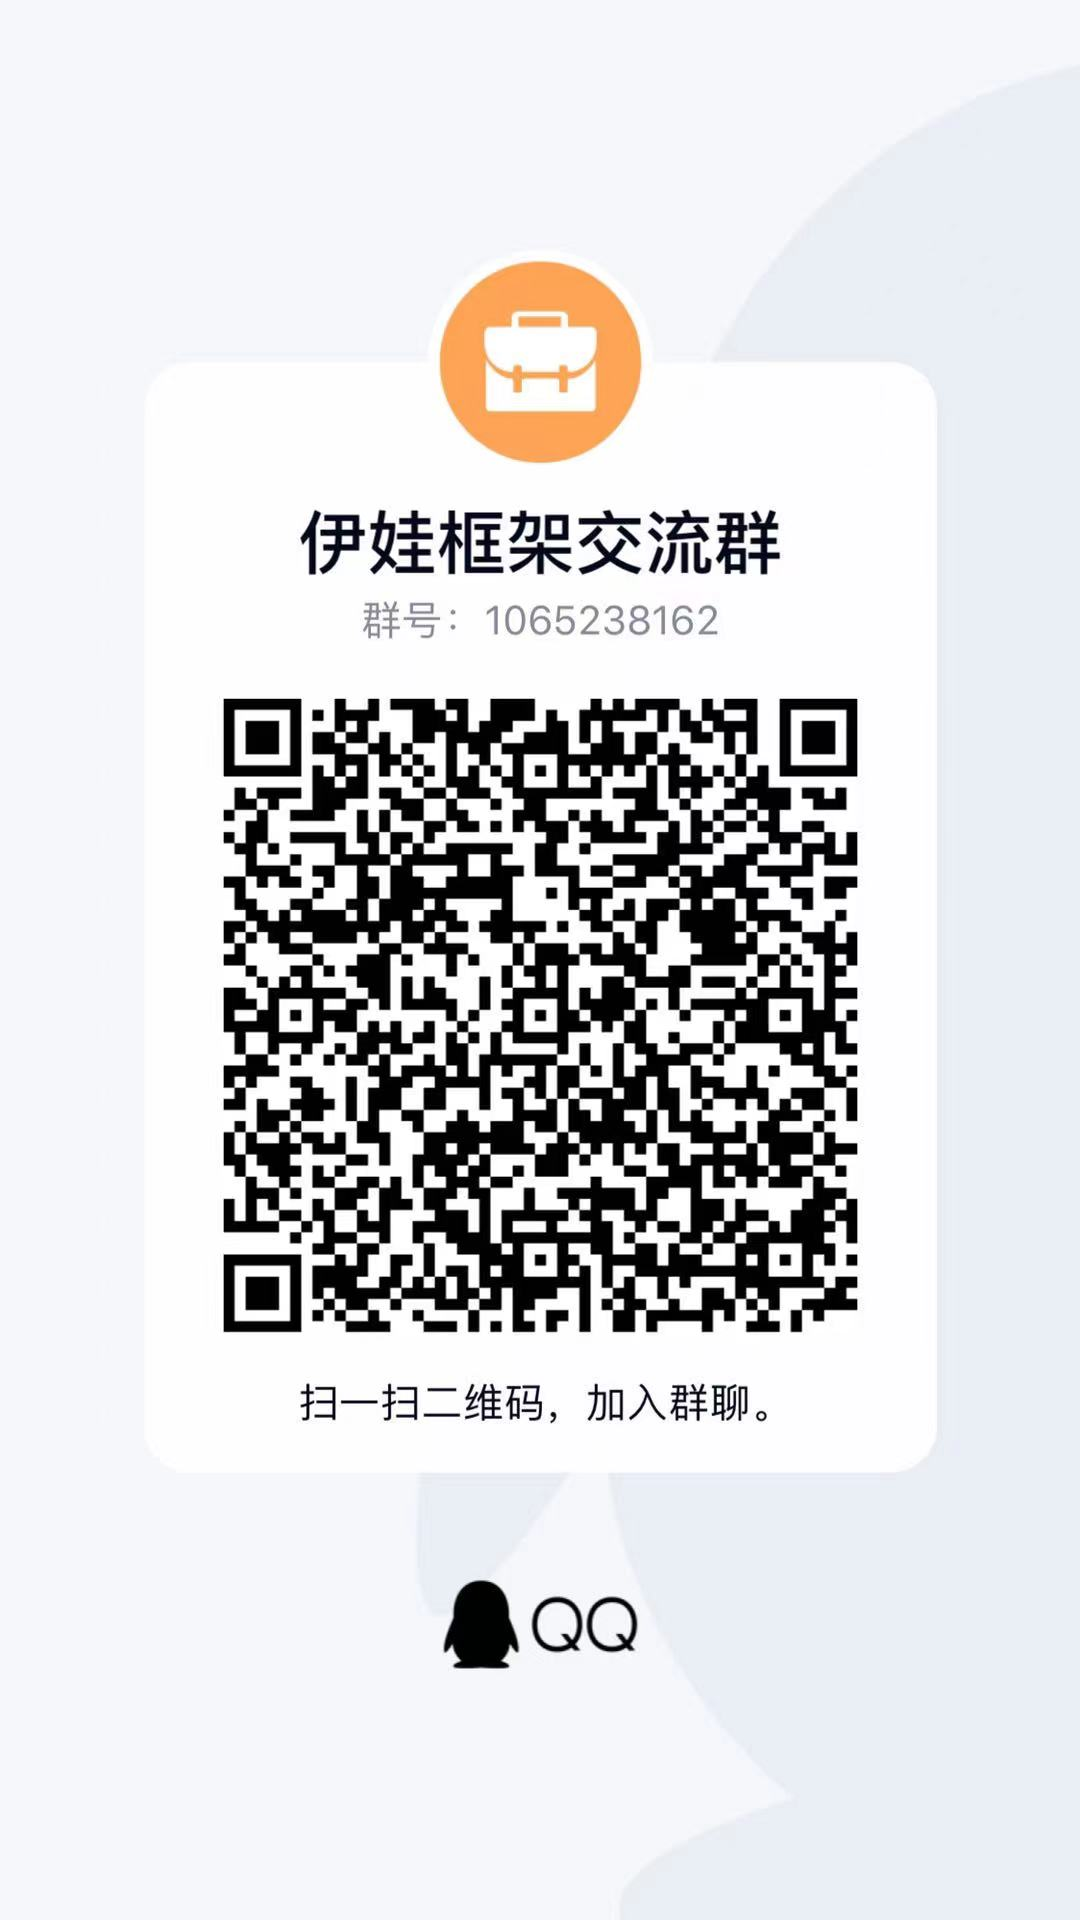
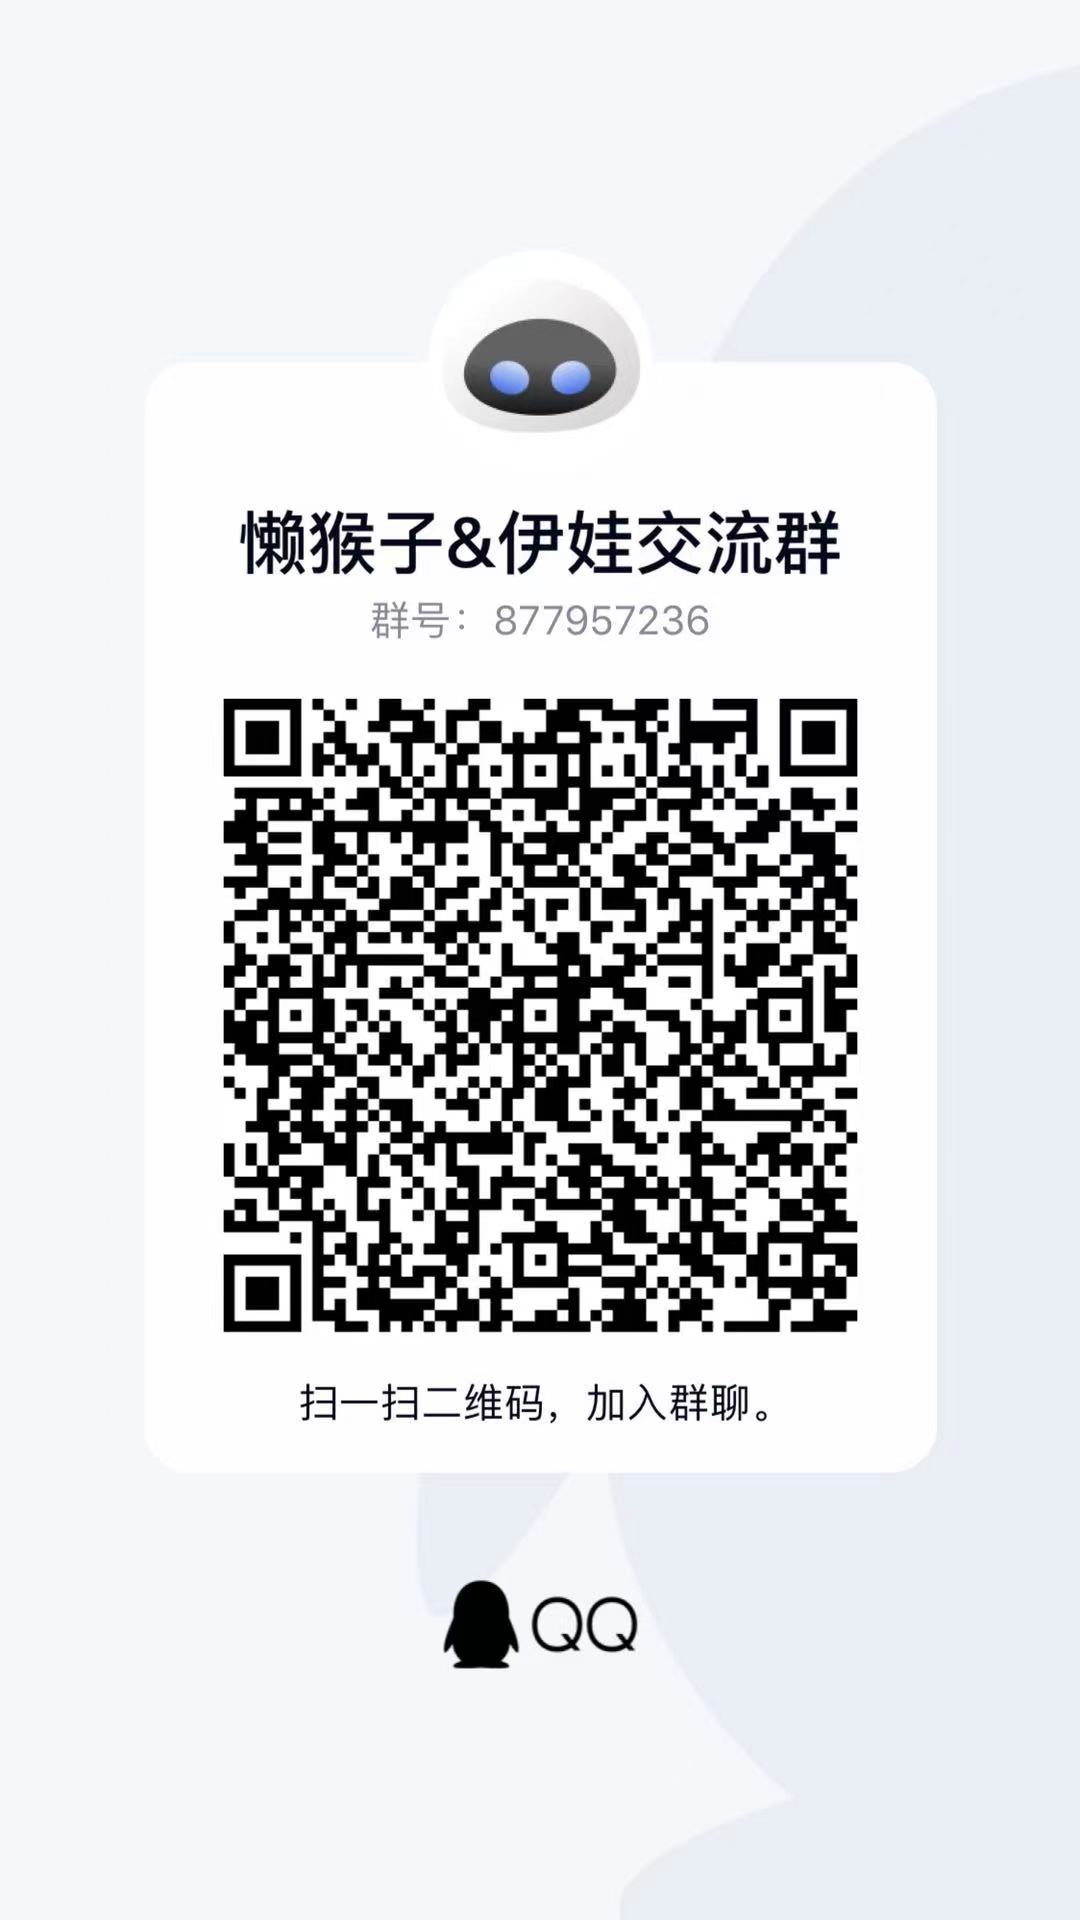
调整交流群信息

Changed region(s): [[0.1833, 0.125, 0.7944, 0.7188]]

diff --git a/README.md b/README.md
@@ -2,7 +2,7 @@
 看到网上有很多的后台管理系统的开源项目，例如若依、Guns、青峰等都非常优秀。但我希望框架可以定制化技术栈，可以定制化模块，例如岗位管理、部门管理、服务监测我能否根据自己的需求来选择要或不要！于是花了几天时间开发了这套伊娃后台管理系统。跟其他开源项目一样，伊娃也做了一些封装。项目功能也经过仔细的测试。希望可以给大家带来帮助。
 
 # 技术支持和交流
-欢迎加入QQ群：1065238162，项目刚刚创立，暂时没什么人，欢迎你成为第一批使用伊娃的人。也希望能让我们共同维护这套框架。
+欢迎加入QQ交流群：877957236，技术交流和框架问答都可以在群里进行。
 
 # 技术栈说明
 项目采用前后端分离的方式进行开发。yiwa-server为后端，yiwa-front为前端。
